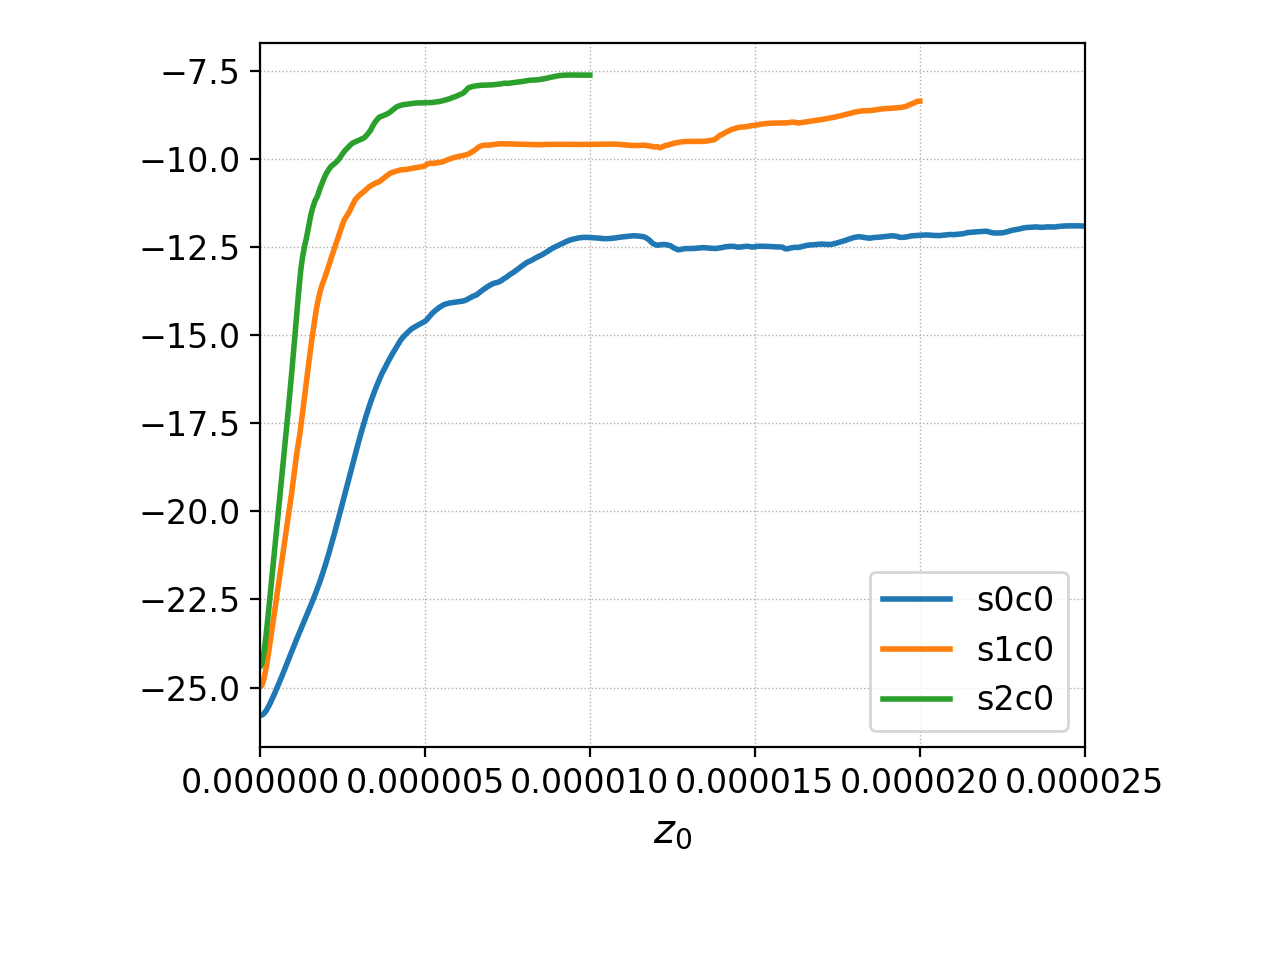
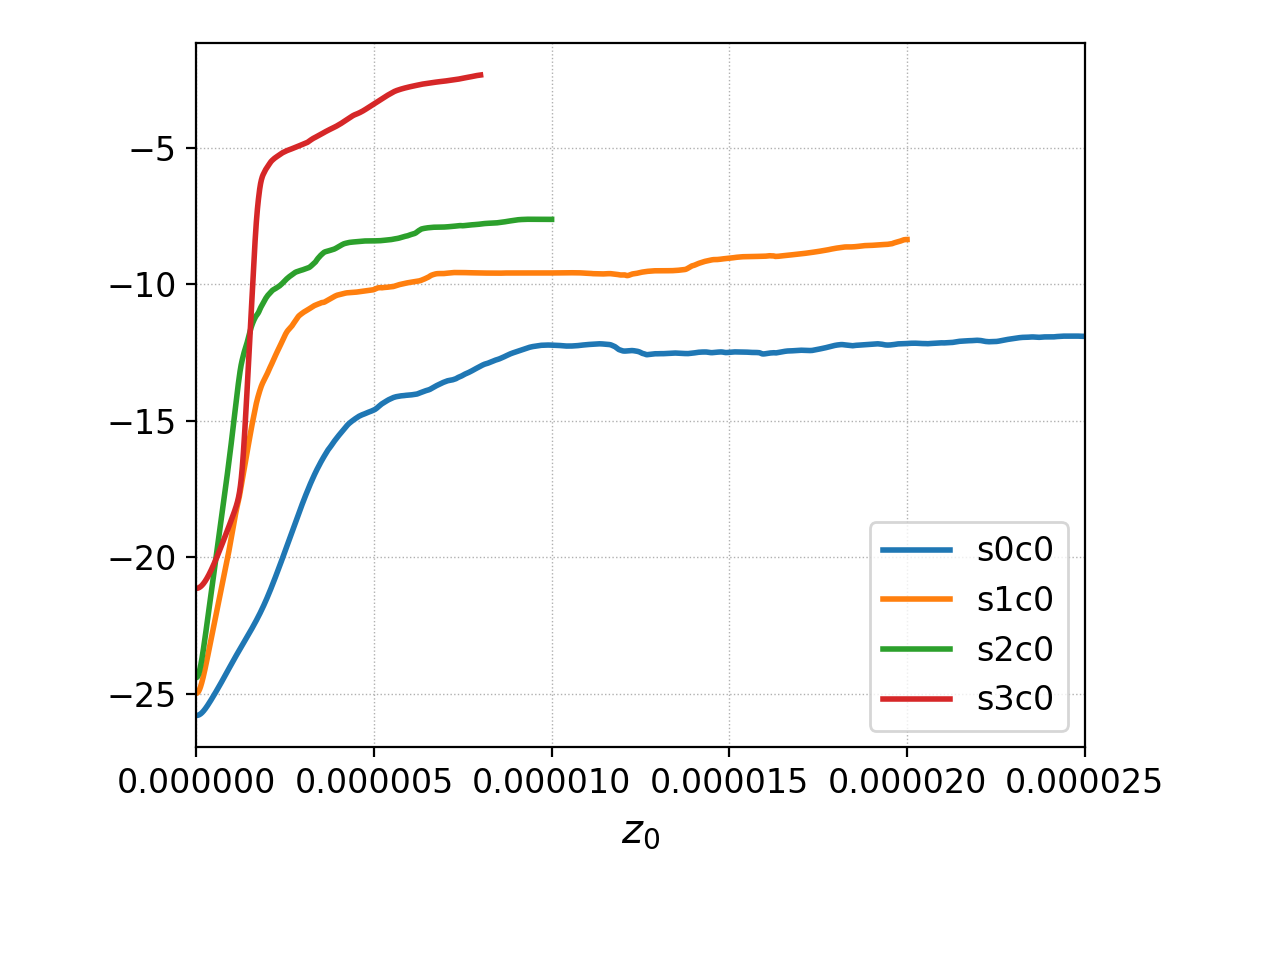
adding one more etg nonlin case

diff --git a/noah/etg4d-nonlin/README.md b/noah/etg4d-nonlin/README.md
@@ -1,6 +1,7 @@
-2x2v GK ETG nonlinear cases with R/LT = 4, 6, 8. kinetic electrons, adiabatic ions.
+2x2v GK ETG nonlinear cases with R/LT = 4, 6, 8, 10. kinetic electrons, adiabatic ions.
 
-> pgkyl -f etg4d-rlt4_phi2_ -f etg4d-rlt6_phi2_ -f etg4d-rlt8_phi2_ log plot -f0
+> pgkyl -f etg4d-rlt4_phi2_ -f etg4d-rlt6_phi2_ -f etg4d-rlt8_phi2_ -f etg4d-rlt10_phi2_ log plot -f0
 
 the resulting plot is saved as etg4d_nonlinear_saturation.png
 
+note: R/LT=10 case required higher resolution and larger box size. ran on 48 cores on edison in ~30min (batch file included).
